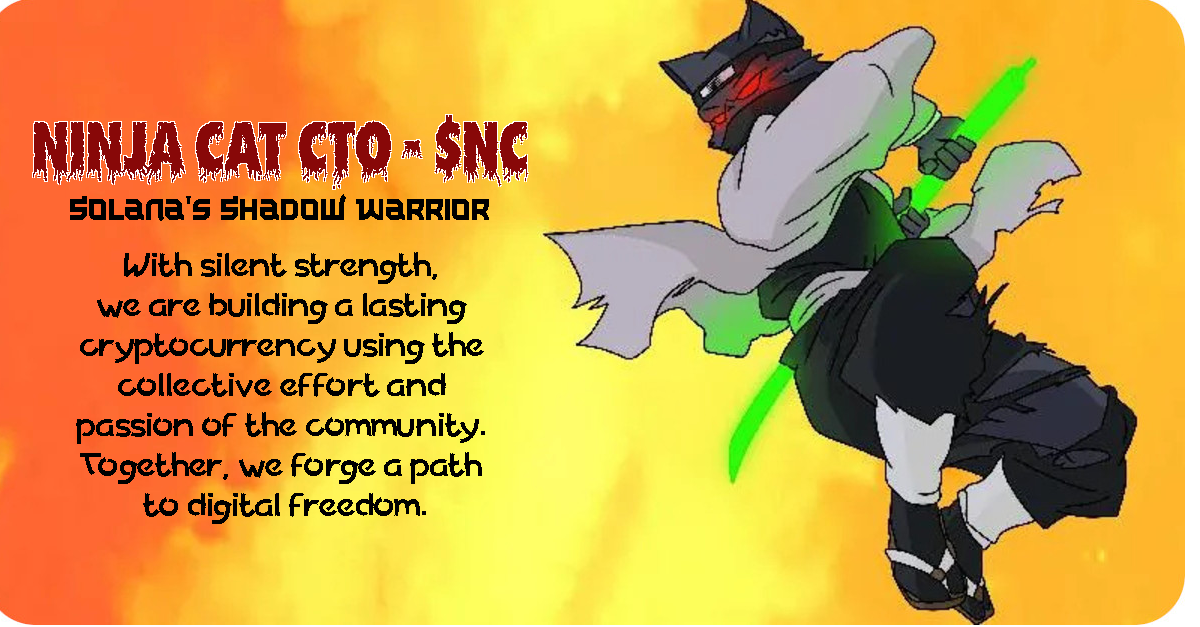
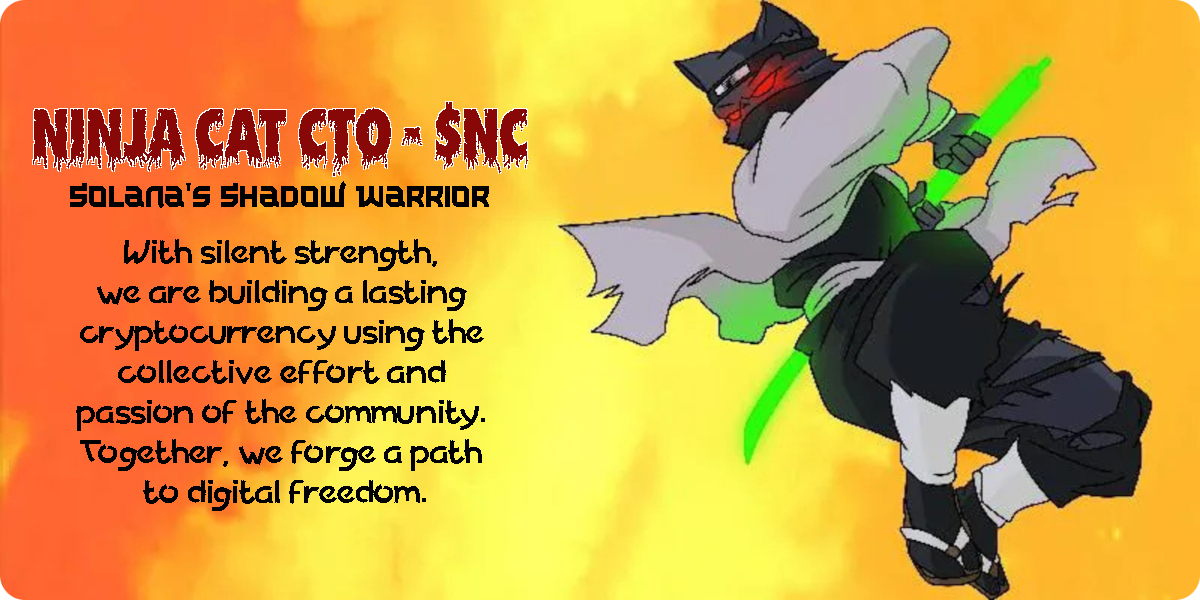
fixed twitter card image

diff --git a/src/App.jsx b/src/App.jsx
@@ -378,7 +378,7 @@ function App() {
         <meta property="og:type" content="website" />
         <meta property="og:title" content="Ninja Cat CTO - $NC: Solana's Shadow Warrior" />
         <meta property="og:locale" content="en_US" />
-        <meta property="og:image" content="/NC-twitter-card-1200x627.png" />
+        <meta property="og:image" content="/TwitterCardImage1200x600.png" />
         <meta property="og:description" content="Welcome to Ninja Cat PFP MAKER, where you can create your custom profile picture, connect via our socials, and explore Dex listings." />
         <meta property="og:updated_time" content="1734829524" />
         <meta property="og:image:alt" content="Welcome to Ninja Cat PFP MAKER, where you can create your custom profile picture, connect via our socials, and explore Dex listings." />
@@ -387,7 +387,7 @@ function App() {
         <meta property="twitter:url" content="https://ninjacat.ch" />
         <meta name="twitter:title" content="Ninja Cat CTO - $NC: Solana's Shadow Warrior" />
         <meta name="twitter:description" content="Welcome to Ninja Cat PFP MAKER, where you can create your custom profile picture, connect via our socials, and explore Dex listings." />
-        <meta name="twitter:image" content="/NC-twitter-card-1200x627.png" />
+        <meta name="twitter:image" content="/TwitterCardImage1200x600.png" />
         <link rel="canonical" href="https://ninjacat.ch/" />
       </Helmet>
       <div className="flex item-center justify-center mx-5">
